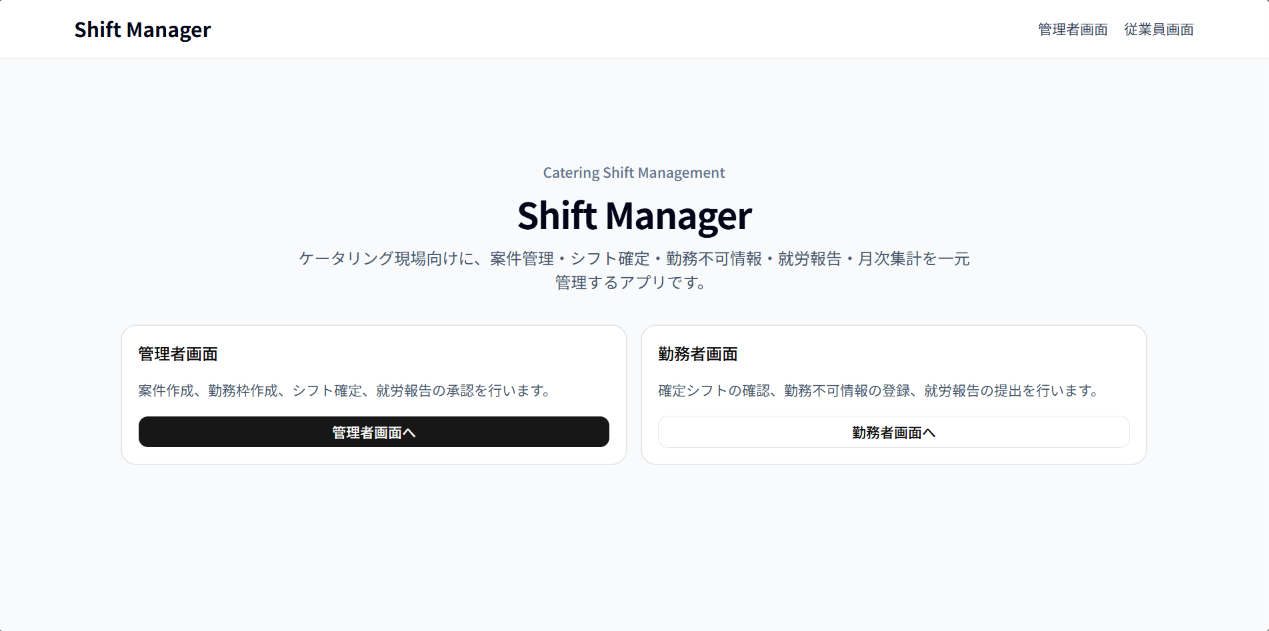
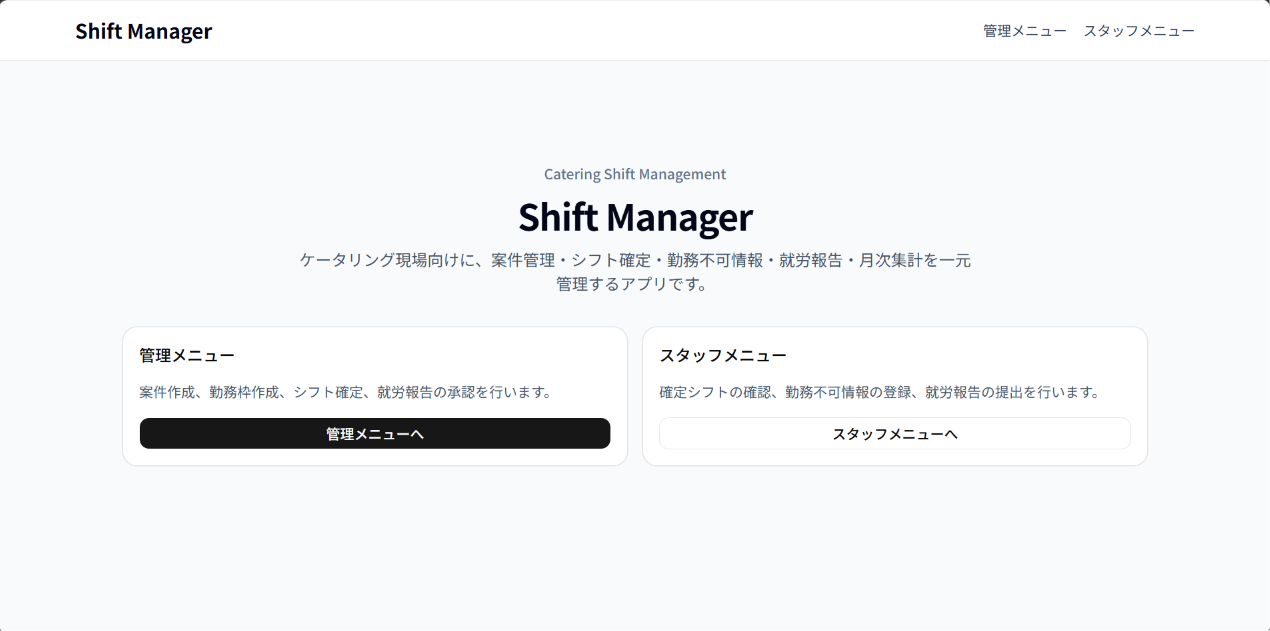
fix:内容の修正

diff --git a/index.html b/index.html
@@ -40,8 +40,7 @@
             <p class="section-label">Portfolio</p>
 
             <h1>
-              数学的な構造理解を活かして、<br />
-              業務課題を解決するWebアプリを設計・実装しています。
+              日々の生活やアルバイトの中で感じた「もっとこうできたらいいのに」を、Webアプリとして形にすることに関心があります。
             </h1>
 
             <p class="hero-description">
@@ -96,13 +95,14 @@
 
           <div class="content">
             <p class="lead">
-              数学で培った「対象を構造化して理解する力」を、
-              Webアプリケーションの要件整理・データ設計・実装に活かしています。
+              日々の生活やアルバイトの中で感じた「もっとこうできたらいいのに」を、Webアプリとして形にすることに関心があります。
             </p>
 
             <p>
-              私は横浜国立大学 理工学部 数理科学EPで数学を学んでいます。
-              数学では、定義に戻って対象を整理し、論理的に一貫した説明を行うことを重視してきました。
+              横浜国立大学 理工学部
+              数理科学EPで数学を専攻しています。ゼミでは確率論を研究しており、不確実性をモデル化し、論理的に扱うことに面白さを感じています。
+              プログラミングは独学でスタートし、現在はフロントエンド開発に取り組んでいます。数学で培った「構造を捉えて抽象化する力」は、設計やコードを書く上でも活きていると感じます。
+              ケータリングのプロスタッフとしても働いており、特技はワインサービスです。現場で求められる観察力・段取り・臨機応変な対応は、チームで開発を進める際にも通じるスキルだと思っています。
             </p>
 
             <p>
@@ -203,24 +203,21 @@
 
           <div class="content">
             <p class="lead">
-              このアプリは、ケータリング現場での実際の業務経験をもとに作成しました。
+              ケータリングのアルバイト先で、社員の方がスタッフ一人ひとりと個別に連絡を取りながらシフトを調整している姿を見て、「この負担を減らせないか」と考えたのがShift
+              Managerの出発点です。
             </p>
-
             <p>
-              ケータリングの仕事では、毎回同じ店舗で同じ時間に働くわけではありません。
-              案件ごとに勤務場所、集合場所、勤務時間、必要人数、担当者が変わります。
+              ケータリングの現場は、一般的な店舗勤務とは性質が異なります。案件ごとに勤務場所・時間・必要人数が変わるため、曜日固定のシフト表では対応しきれません。案件単位での条件管理と、人員の充足状況をリアルタイムに把握できる仕組みが求められていました。
             </p>
-
             <p>
-              そのため、一般的な店舗シフトのように
-              「曜日ごとに誰が入るか」を管理するだけでは不十分です。
-              現場では、案件ごとに何人必要で、現在何人が確定していて、
-              どの時間帯が不足しているのかを素早く把握する必要があります。
+              それまでJava中心のバックエンド開発を学んできた中で、次はフロントエンドに挑戦したいと考えていました。加えて、「使う人にとって分かりやすく、迷わず操作できる画面を作りたい」という関心もありました。現場で実感した課題をテーマにしたシフト管理アプリは、学習としても実用としてもちょうど良い題材でした。
             </p>
-
             <p>
-              そこで、案件単位で勤務枠と割当状況を管理できるアプリとして Shift
-              Managerを開発しました。
+              以前の個人開発では「自分があったら便利だと思うもの」を自分の視点で設計していましたが、今回は実際にシフト管理を担当している社員の方にヒアリングを行い、現状の管理方法・困りごと・必要な機能を整理するところから始めました。
+            </p>
+            <p>
+              そのうえで、案件・勤務枠・従業員・シフト割当を分離して管理できる構成を設計し、現場の働き方に沿ったアプリケーションとしてShift
+              Managerを開発しました
             </p>
           </div>
         </div>
@@ -235,18 +232,32 @@
           <div class="problem-grid">
             <article class="problem-card">
               <span class="problem-number">01</span>
-              <h3>案件ごとに勤務条件が変わる</h3>
+              <h3>シフト調整が個別連絡に依存している</h3>
               <p>
-                ケータリングでは案件ごとに場所・時間・必要人数が異なるため、
-                固定シフト型の管理では対応しにくい課題があります。
+                現場では、社員の方がスタッフ一人ひとりに個別で連絡を取りながら、勤務可能日や参加可否を確認していました。
+                この方法では、人数が増えるほど確認・返信待ち・再調整の負担が大きくなります。また、誰に連絡済みで、誰が未回答なのかを把握するのも難しくなります。
               </p>
               <strong>
-                JobとJobShiftSlotを分離し、1つの案件に複数の勤務枠を持たせる設計にしました。
+                Shift
+                Managerでは、案件ごとの勤務枠や割当状況を一覧で確認できるようにし、シフト調整に必要な情報を一か所に集約することを目指しました。
               </strong>
             </article>
 
             <article class="problem-card">
               <span class="problem-number">02</span>
+              <h3>案件ごとに条件が違い、通常のシフト表では管理しにくい</h3>
+              <p>
+                ケータリングの仕事では、毎回同じ場所・同じ時間で働くわけではありません。案件ごとに勤務場所、集合時間、勤務時間、必要人数が変わります。
+                そのため、一般的な曜日固定のシフト表では、案件ごとの条件を十分に管理できません。
+              </p>
+              <strong>
+                Shift
+                Managerでは、案件と勤務枠を分けて管理することで、1つの案件に複数の時間帯や必要人数を設定できるようにしました。
+              </strong>
+            </article>
+
+            <article class="problem-card">
+              <span class="problem-number">03</span>
               <h3>人員の充足状況が分かりにくい</h3>
               <p>
                 必要人数に対して、現在何人が確定しているのかをすぐに把握できないと、
@@ -258,7 +269,20 @@
             </article>
 
             <article class="problem-card">
-              <span class="problem-number">03</span>
+              <span class="problem-number">04</span>
+              <h3>情報が分散し、確認漏れが起きやすい</h3>
+              <p>
+                個別連絡を中心にシフトを管理していると、勤務日、集合場所、勤務時間、担当者、連絡状況などの情報が分散しやすくなります。
+                情報が複数の場所に分かれていると、確認漏れや認識違いが起きる可能性があります。
+              </p>
+              <strong>
+                Shift
+                Managerでは、案件に関する情報を一つの画面で確認できるようにし、管理者とスタッフの双方が必要な情報にアクセスしやすい状態を目指しました。
+              </strong>
+            </article>
+
+            <article class="problem-card">
+              <span class="problem-number">05</span>
               <h3>管理者とスタッフで必要な情報が違う</h3>
               <p>
                 管理者は全体の割当状況を確認したい一方で、スタッフは自分の勤務予定を確認できれば十分です。
@@ -324,19 +348,20 @@
 
           <div class="content">
             <p class="lead">
-              現場の業務構造に合わせて、データモデルを分離しました。
+              実際のケータリング現場の流れに合わせて、案件作成からシフト確定、就労報告、月次集計までを一連の業務フローとして扱えるように設計しました。
             </p>
 
             <p>
               Shift Managerでは、シフトを単なる予定表として扱うのではなく、
-              「案件」「勤務枠」「従業員」「割当」という単位に分けて管理しています。
+              「案件」「勤務枠」「割当」「従業員」という単位に分けて管理しています。
+              これにより、1つの案件に複数の勤務時間帯がある場合や、勤務枠ごとに必要人数が異なる場合にも対応しやすい構成にしました。
             </p>
 
             <div class="model-flow">
               <div class="model-card">
                 <span>Job</span>
                 <strong>案件</strong>
-                <p>案件名、日付、場所、メモなどを管理</p>
+                <p>案件名、日付、勤務場所、集合場所、備考などを管理</p>
               </div>
 
               <div class="model-arrow">↓</div>
@@ -344,15 +369,15 @@
               <div class="model-card">
                 <span>JobShiftSlot</span>
                 <strong>勤務枠</strong>
-                <p>勤務時間帯、必要人数を管理</p>
+                <p>勤務時間帯、休憩時間、必要人数を管理</p>
               </div>
 
               <div class="model-arrow">↓</div>
 
               <div class="model-card">
                 <span>ShiftAssignment</span>
-                <strong>割当</strong>
-                <p>勤務枠に対して従業員を割り当てる</p>
+                <strong>勤務割当</strong>
+                <p>どの勤務枠にどの従業員が入るかを管理</p>
               </div>
 
               <div class="model-arrow">↓</div>
@@ -360,14 +385,56 @@
               <div class="model-card">
                 <span>Employee</span>
                 <strong>従業員</strong>
-                <p>名前、役割、勤務状態などを管理</p>
+                <p>名前、役割、時給、在籍状態、勤務不可情報を管理</p>
               </div>
             </div>
 
-            <p>
-              このように責務を分けることで、1つの案件に複数の勤務時間帯がある場合や、
-              勤務枠ごとに必要人数が異なる場合にも対応しやすくなります。
-            </p>
+            <div class="design-points">
+              <div class="design-point">
+                <h3>役割ごとの画面設計</h3>
+                <p>
+                  管理者と勤務者では必要な情報や操作が異なるため、画面を分離しました。
+                  管理者側では案件管理、人員割当、就労報告、月次集計を中心にし、
+                  勤務者側では確定シフト、勤務不可情報、案件詳細を確認しやすい構成にしています。
+                </p>
+              </div>
+
+              <div class="design-point">
+                <h3>PC・スマホでの表示切り替え</h3>
+                <p>
+                  管理者はPCで一覧確認する場面が多いと考え、テーブル中心のUIにしました。
+                  一方で、勤務者はスマホからシフトを確認する場面が多いため、
+                  スマホではカード表示や下部ナビゲーションを採用しています。
+                </p>
+              </div>
+
+              <div class="design-point">
+                <h3>入力負荷を下げるテンプレート機能</h3>
+                <p>
+                  同じような案件が繰り返し発生することを想定し、案件テンプレート機能を追加しました。
+                  勤務場所、集合場所、勤務時間、服装、持ち物などを再利用できるようにし、
+                  案件作成時の入力負荷を減らしています。
+                </p>
+              </div>
+
+              <div class="design-point">
+                <h3>人員状況を判断しやすい充足率表示</h3>
+                <p>
+                  各案件について、必要人数と確定人数から充足率を計算するようにしました。
+                  これにより、管理者が人員不足の案件を一覧画面で把握しやすくなり、
+                  調整が必要な案件を優先的に確認できます。
+                </p>
+              </div>
+
+              <div class="design-point">
+                <h3>共通コンポーネントによる保守性向上</h3>
+                <p>
+                  ナビゲーション、送信ボタン、Google
+                  Mapsリンク、カード表示などを共通コンポーネント化しました。
+                  同じUIや処理を画面ごとに重複して書かないようにし、機能追加やデザイン修正をしやすい構成にしています。
+                </p>
+              </div>
+            </div>
           </div>
         </div>
       </section>
@@ -480,8 +547,8 @@
         </div>
       </section>
 
-      <!-- Future -->
-      <section class="section">
+      <!-- Future Improvements -->
+      <section id="future" class="section section-gray">
         <div class="container two-column">
           <div>
             <p class="section-label">Future</p>
@@ -489,15 +556,85 @@
           </div>
 
           <div class="content">
-            <ul class="check-list">
-              <li>スマートフォンでの操作性をさらに改善する</li>
-              <li>カレンダーで確定・未確定のシフトを色分けする</li>
-              <li>集合場所をGoogle Mapsリンクで確認できるようにする</li>
-              <li>勤務報告から月次給与計算につなげる</li>
-              <li>Excel出力機能を追加する</li>
-              <li>フォームのバリデーションとエラーハンドリングを強化する</li>
-              <li>テストコードを追加し、保守性を高める</li>
-            </ul>
+            <p class="lead">
+              現在は、案件管理・勤務不可情報・シフト割当・就労報告・月次集計までの基本的な業務フローを実装しています。
+              今後は、実際の運用をより想定した機能追加と、保守性・信頼性の向上に取り組みたいと考えています。
+            </p>
+
+            <div class="future-list">
+              <div class="future-item">
+                <h3>Excel出力機能の強化</h3>
+                <p>
+                  月次集計や給与計算の結果を、管理者がそのまま確認・共有できるように、
+                  Excel形式で出力できる機能を強化したいです。
+                  従業員別の勤務時間、交通費、食事手当、支給額などを整理して出力できるようにすることで、
+                  実際の給与確認業務に近づけます。
+                </p>
+              </div>
+
+              <div class="future-item">
+                <h3>通知機能の追加</h3>
+                <p>
+                  シフト確定時、案件内容の変更時、就労報告の未提出時などに、
+                  勤務者へ通知できる仕組みを追加したいです。
+                  現状はアプリを開いて確認する必要があるため、通知機能を加えることで確認漏れを減らせます。
+                </p>
+              </div>
+
+              <div class="future-item">
+                <h3>勤務者への案件打診機能</h3>
+                <p>
+                  管理者が候補者に対して案件への参加可否を確認できる機能を追加したいです。
+                  現在は管理者が割当を行う設計ですが、勤務者側が「参加可能」「不可」「保留」などを返せるようにすることで、
+                  より現場の調整フローに近い形にできます。
+                </p>
+              </div>
+
+              <div class="future-item">
+                <h3>検索・絞り込み機能の強化</h3>
+                <p>
+                  案件数や従業員数が増えた場合に備えて、日付、勤務場所、充足状況、従業員名、就労報告ステータスなどで
+                  検索・絞り込みできる機能を強化したいです。
+                  データが増えても、管理者が必要な情報に素早くアクセスできるようにします。
+                </p>
+              </div>
+
+              <div class="future-item">
+                <h3>権限設計の細分化</h3>
+                <p>
+                  現在は主に管理者と勤務者という大きな役割で画面を分けています。
+                  今後は、店長、現場責任者、経理担当など、より細かい権限を想定し、
+                  操作できる範囲を分けられるようにしたいです。
+                </p>
+              </div>
+
+              <div class="future-item">
+                <h3>テストコードの追加</h3>
+                <p>
+                  Server Action、給与計算、勤務不可判定、充足率計算など、
+                  不具合が業務に影響しやすい処理から優先してテストを追加したいです。
+                  特に金額計算やシフト割当のロジックは、変更時に壊れないように自動テストで確認できる状態を目指します。
+                </p>
+              </div>
+
+              <div class="future-item">
+                <h3>エラーハンドリングと入力バリデーションの改善</h3>
+                <p>
+                  現在も必須項目や権限確認は実装していますが、今後はユーザーに分かりやすいエラーメッセージ表示や、
+                  入力値のより厳密な検証を追加したいです。
+                  例えば、終了時刻が開始時刻より前にならないようにする、負の金額を登録できないようにするなど、
+                  実運用で起こりやすい入力ミスを防ぎます。
+                </p>
+              </div>
+
+              <div class="future-item">
+                <h3>運用を想定したログ・監査機能</h3>
+                <p>
+                  誰がいつ案件を作成・更新・削除したのか、誰がシフトを確定したのかを記録できるようにしたいです。
+                  業務アプリとして運用する場合、操作履歴を残すことで、トラブル発生時の原因確認や説明責任を果たしやすくなります。
+                </p>
+              </div>
+            </div>
           </div>
         </div>
       </section>